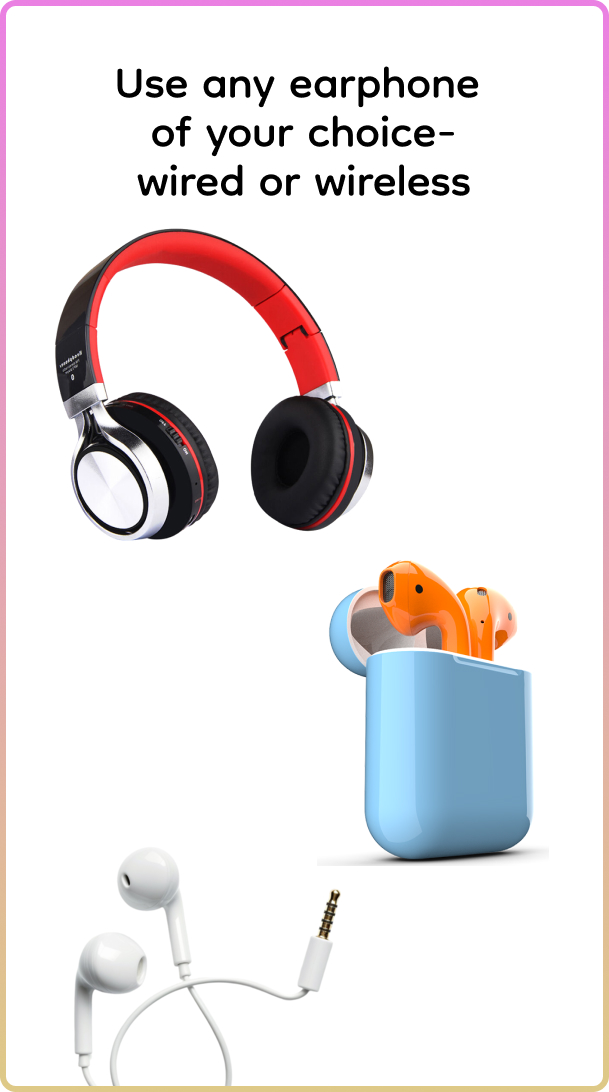
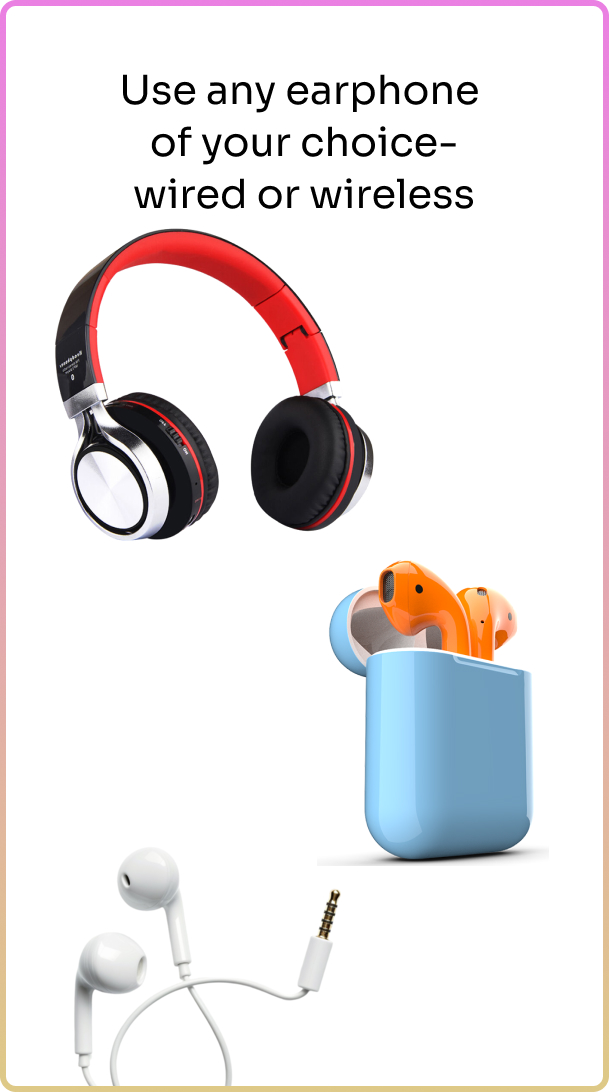
Refactor code structure and remove redundant sections for improved readability and maintainability

Changed region(s): [[0.1872, 0.0623, 0.78, 0.1868]]

diff --git a/src/components/Hero.jsx b/src/components/Hero.jsx
@@ -1,25 +1,30 @@
-import { useRef } from "react";
-import { curve, heroBackground, robot } from "../assets";
-import HeroImg from "../assets/hero/hero.png"
-import Button from "./Button";
+import { useRef, useEffect, useState } from "react";
+import { curve } from "../assets";
 import Section from "./Section";
 import { BackgroundCircles, BottomLine, Gradient } from "./design/Hero";
-import { ScrollParallax } from "react-just-parallax";
-import { heroIcons } from "../constants";
-import Generating from "./Generating";
-import Notification from "./Notification";
+import HeroImg from "../assets/hero/hero.png"
+import HeroImg1 from "../assets/hero/hero1.jpg";
+import HeroImg2 from "../assets/hero/hero2.jpg";
+import HeroImg3 from "../assets/hero/hero3.jpg";
+import HeroImg4 from "../assets/hero/hero4.jpg";
 import CompanyLogos from "./CompanyLogos";
+
+const heroImages = [HeroImg,HeroImg1, HeroImg2, HeroImg3,HeroImg4];
 
 const Hero = () => {
   const parallaxRef = useRef();
+  const [currentHeroImage, setCurrentHeroImage] = useState(heroImages[0]);
+
+  useEffect(() => {
+    const randomIndex = Math.floor(Math.random() * heroImages.length);
+    setCurrentHeroImage(heroImages[randomIndex]);
+  }, []);
 
   return (
     <Section
       id="hero"
       className="pt-[12rem] -mt-[5.25rem]"
-      crosses
       crossesOffset="lg:translate-y-[5.25rem]"
-      customPaddings
     >
       <div className="container realtive" ref={parallaxRef}>
         <div className="relative z-1 max-w-[62rem] mx-auto text-center mb-[3.875rem] md:mb-20 lg:mb-[6.25rem]">
@@ -35,8 +40,6 @@ const Hero = () => {
                 alt="Curve"
               />
             </span>{" "}
-
-
           </h1>
           <h1 className="h2">
             <span>
@@ -46,57 +49,26 @@ const Hero = () => {
           <p className="body-1 max-w-3xl mx-auto mt-3 mb-6 text-n-4 lg:mb-8">
             HearMate provides an economical and convenient over-the-counter hearing solution by converting your earphones and headphones into customized hearing aids.
           </p>
-          {/* <Button href="#" white>
-            Download Now
-          </Button> */}
         </div>
         <div className="relative max-w-[23rem] mx-auto md:max-w-5xl xl:mb-24">
           <div className="relative z-1 p-0.5 rounded-2xl bg-conic-gradient">
             <div className="relative bg-n-8 rounded-[1rem]">
-              {/* <div className="h-[1.4rem] bg-n-6 rounded-t-[0.9rem]"></div> */}
               <div className="aspect-[33/40] rounded-b-[0.9rem] overflow-hidden md:aspect-[688/490] lg:aspect-[1024/490]">
                 <img
-                  src={HeroImg}
+                  src={currentHeroImage}
                   className="aspect-video object-cover w-full h-full rounded-2xl"
                   width={1024}
                   height={490}
-                  alt="AI robot image"
+                  alt="Hero image"
                   loading="lazy"
                 />
-                {/* <Generating className="absolute left-4 right-4 bottom-5 md:left-1/2 md:right-auto md:bottom-8 md:w-[31rem] md:-translate-x-1/2" /> */}
-
-                {/* <ScrollParallax isAbsolutelyPositioned>
-                  <ul className="hidden absolute -left-[5.5rem] bottom-[7.5rem] px-1 py-1 bg-n-9/40 backdrop-blur border border-n-1/10 rounded-2xl xl:flex">
-                    {heroIcons.map((icon, index) => (
-                      <li className="p-5" key={index}>
-                        <img src={icon} width={24} height={25} alt={icon} />
-                      </li>
-                    ))}
-                  </ul>
-                </ScrollParallax> */}
-                {/* <ScrollParallax isAbsolutelyPositioned>
-                  <Notification
-                    className="hidden absolute -right-[5.5rem] bottom-[11rem] w-[18rem] xl:flex"
-                    title="HearMate Users"
-                  />
-                </ScrollParallax> */}
               </div>
             </div>
             <Gradient />
           </div>
-          {/* Hero background image */}
-          <div className="absolute -top-[54%] left-1/2 w-[234%] -translate-x-1/2 md:-top-[46%] md:w-[138%] lg:-top-[104%]">
-            {/* <img
-              src={heroBackground}
-              className="w-full"
-              width={1440}
-              height={1800}
-              alt="hero image"
-            /> */}
-          </div>
           <BackgroundCircles />
         </div>
-        {/* <CompanyLogos className="hidden relative z-10 mt-20 lg:block" /> */}
+        <CompanyLogos className="hidden relative z-10 mt-20 lg:block" />
       </div>
       <BottomLine />
     </Section>

diff --git a/src/components/Collaboration.jsx b/src/components/Collaboration.jsx
@@ -7,14 +7,37 @@ import { LeftCurve, RightCurve } from "./design/Collaboration";
 import webLogo from "../assets/hearmate1.svg"
 import Heading from "./Heading";
 
+import { curve } from "../assets";
+
 const Collaboration = () => {
   return (
-    <Section id="hearing-solutions">
-      <Heading
-        className="container md:max-w-md lg:max-w-2xl"
-        title="Hearing Aids vs "
-        accent="HearMate"
-      />
+    <Section id="comparison">
+
+
+      <div
+        className={`container md:max-w-md lg:max-w-2xl max-w-[50rem] mx-auto mb-12 lg:mb-20 md:text-center`}
+      >
+        <h2 className="h2 space-y-3">
+          <span className="inline-block relative">
+            <span style={{ color: "#B84646" }}>Hear</span>
+            <span className="text-[#0058A5]">Mate</span>
+            <img
+              src={curve}
+              className="absolute top-full left-0 w-full xl:-mt-2"
+              width={624}
+              height={28}
+              alt="Curve"
+            /></span>
+          <p>
+            VS
+          </p>
+
+          <p>
+            HearMate
+          </p>
+
+        </h2>
+      </div>
       <div className="container lg:flex">
         <div className="max-w-[25rem]">
           <h4 className="h2 mb-4 md:mb-8">

diff --git a/src/components/Advantages.jsx b/src/components/Advantages.jsx
@@ -6,10 +6,10 @@ import PixelCard from "./design/PixelCard";
 
 const Advantages = () => {
     return (
-        <Section id="advantages">
+        <Section id="merits">
             <div className="container">
                 <Heading
-                    title="Advantages of "
+                    title="Merits of "
                     accent="HearMate"
                     text="HearMate combines commonly available devices with a touch of ingenuity to offer a distinctly personalized experience for its users."
                 />

diff --git a/src/components/CompanyLogos.jsx b/src/components/CompanyLogos.jsx
@@ -7,14 +7,14 @@ const CompanyLogos = ({ className }) => {
         Helping people create beautiful content at
       </h2>
       <ul className="flex">
-        {companyLogos.map((logo, index) => (
+        {/* {companyLogos.map((logo, index) => (
           <li
             className="flex items-center justify-center flex-1 h-[8.5rem]"
             key={index}
           >
             <img src={logo} width={134} height={28} alt={logo} />
           </li>
-        ))}
+        ))} */}
       </ul>
     </div>
   );

diff --git a/src/components/Footer.jsx b/src/components/Footer.jsx
@@ -28,8 +28,8 @@ const Footer = () => {
                   alt="Curve"
                 /></span>
               <p className="caption">
-                <a href="mailto:info@hearmate.app" className="text-[#5DCA76]">
-                  info@hearmate.app
+                <a href="mailto:info@hearmate.com" className="text-gray-700 hover:underline">
+                  info@hearmate.com
                 </a>
               </p>
             </div>

diff --git a/src/constants/index.js b/src/constants/index.js
@@ -68,8 +68,8 @@ export const navigation = [
   },
   {
     id: "1",
-    title: "Solution",
-    url: "#hearing-solutions",
+    title: "Comparison",
+    url: "#comparison",
   },
   // {
   //   id: "1",
@@ -78,8 +78,8 @@ export const navigation = [
   // },
   {
     id: "6",
-    title: "Advantages",
-    url: "#advantages",
+    title: "Merits",
+    url: "#merits",
   },
   {
     id: "6",

diff --git a/src/index.css b/src/index.css
@@ -10,11 +10,12 @@
   --font-sora: "Sora", sans-serif;
   --font-code: "Source Code Pro", monospace;
   --font-grotesk: "Space Grotesk", sans-serif;
-  color-scheme: dark;
+  color-scheme: light;
 }
 
 * {
   scroll-behavior: smooth;
+  transition: 300s all ease-in-out;
 }
 
 @layer base {
